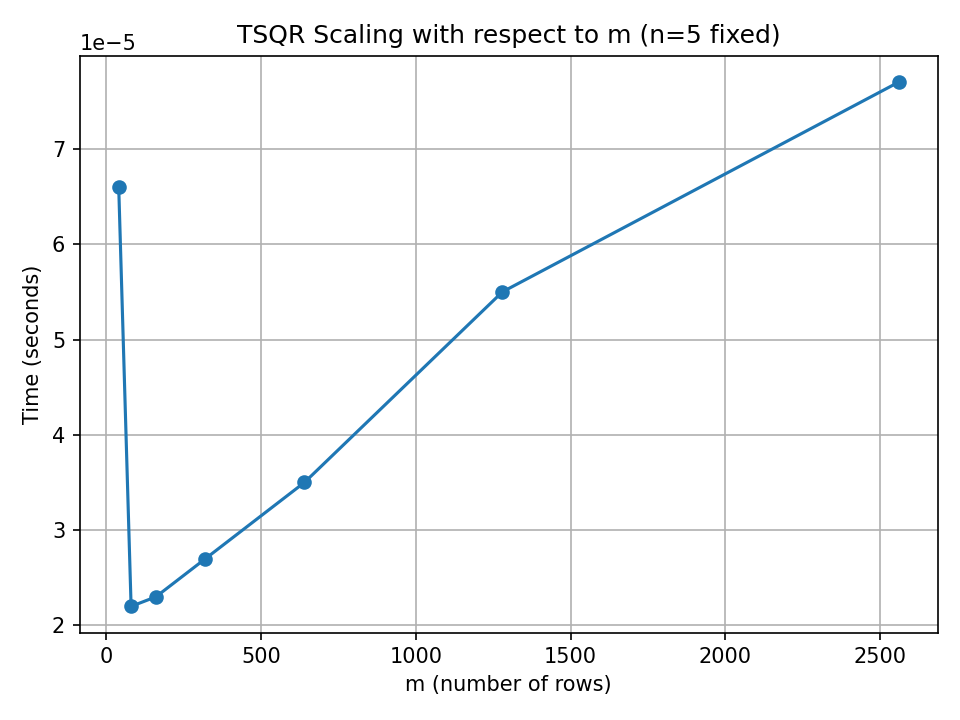
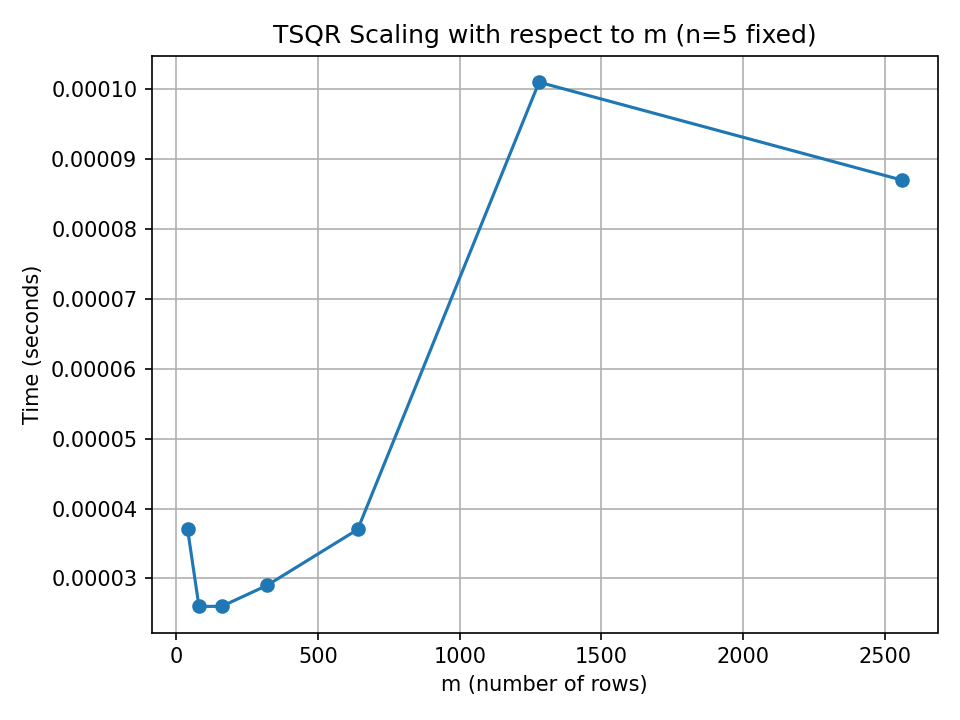
update Q2 Q3 code and add scaling results

diff --git a/README.md b/README.md
@@ -1,1 +1,23 @@
-# Ass1-CAQR
+# MAP55672: Case Studies in HPC
+## Case 1: Communication-Avoiding QR Factorization
+
+**Author:** Xinyue Niu
+
+
+## Structure
+
+`python/tsqr.ipynb` — Question 1: TSQR implementation in Python
+`tsqr_c/tsqr.c` — Question 2 & 3: TSQR implementation in C using LAPACK
+`tsqr_c/Makefile` — Build and run the C code
+
+## run
+
+**Python (Question 1):**
+Open `python/tsqr.ipynb` and run all cells.
+
+**C (Questions 2 & 3):**
+```bash
+cd tsqr_c
+make
+make run
+```
